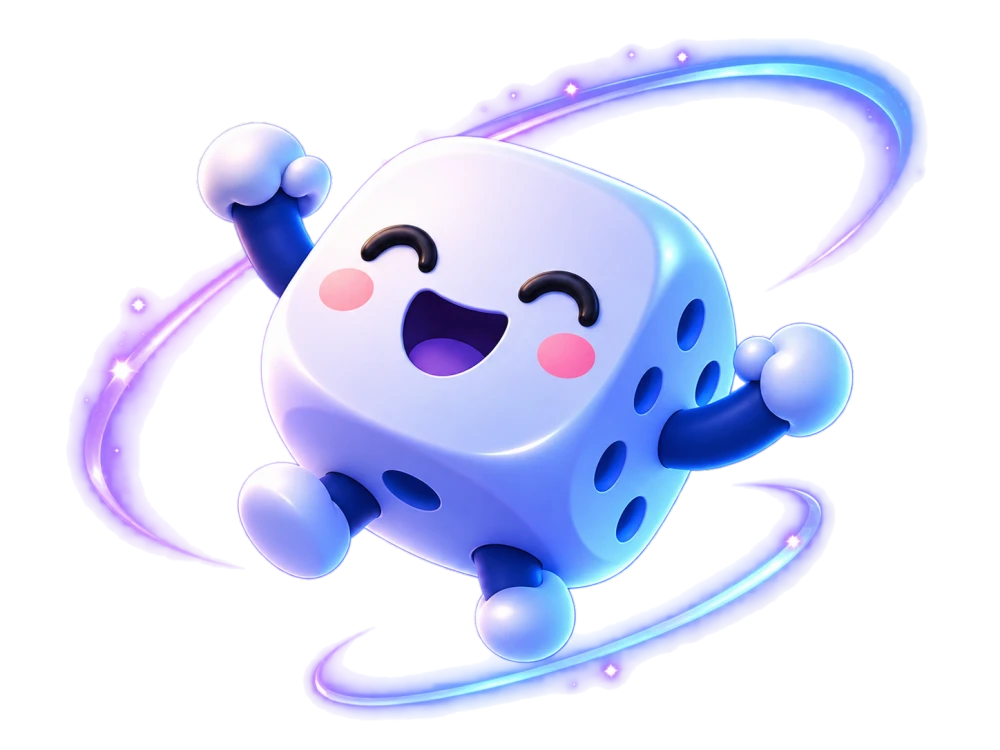
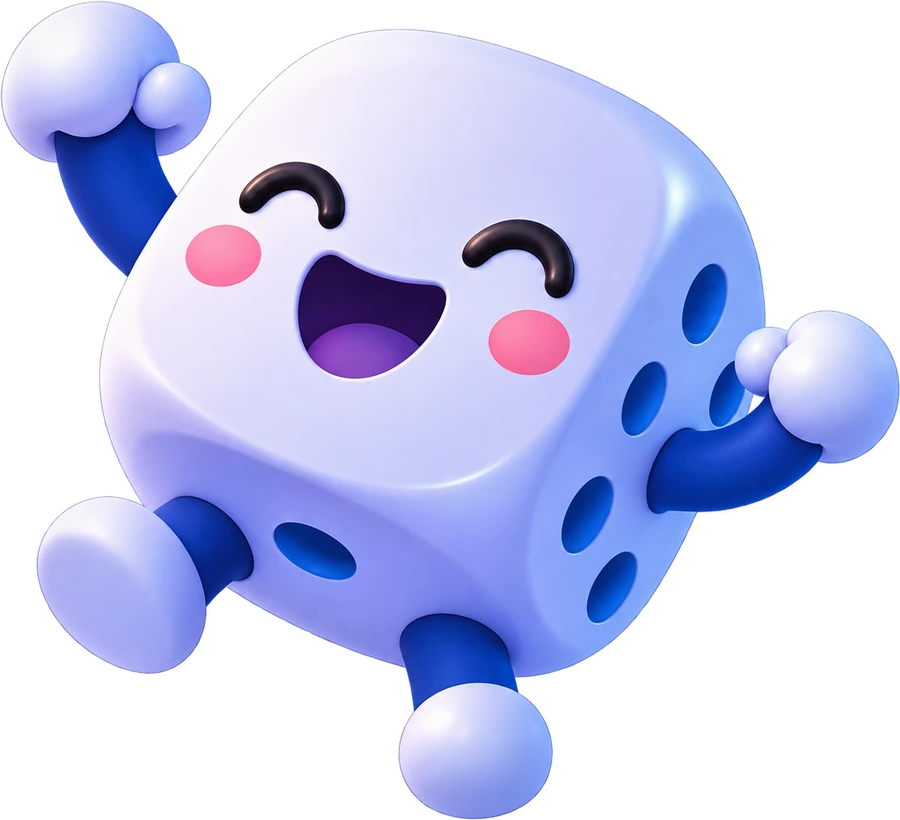
Update: New Hero Page

diff --git a/src/index.css b/src/index.css
@@ -773,34 +773,12 @@ html, body { max-width: 100%; overflow-x: clip; }
   .hero-desc { text-shadow: 0 2px 10px rgba(70,40,160,.9), 0 0 3px rgba(70,40,160,.6); }
 }
 
-/* ── hero v19: background and dice are separate images (same in both languages, never mirrored).
-   Desktop: both sit on one "cover" plate so they stay aligned. Phones: the dice is placed on its own at the top, text under it, the picture's props at the bottom. ── */
-.hero-art { position: absolute; inset: 0; container-type: size; overflow: hidden; }
-.hero-stage { position: absolute; inset: 0; --pw: max(100cqw, calc(100cqh * 1.7769)); --ph: calc(var(--pw) / 1.7769); --pl: calc((100cqw - var(--pw)) * .7); --pt: calc((100cqh - var(--ph)) * .4); }
-.hero-plate { position: absolute; left: var(--pl); top: var(--pt); width: var(--pw); height: var(--ph); }
-.hero-plate img { display: block; width: 100%; height: 100%; max-width: none; user-select: none; }
-.hero-dice { position: absolute; left: calc(var(--pl) + var(--pw) * .6943); top: calc(var(--pt) + var(--ph) * .2136); width: calc(var(--pw) * .2877); height: auto; max-width: none; user-select: none; pointer-events: none; }
-@media (max-width: 767px) {
-  .hero-plate { left: auto; right: 0; top: auto; bottom: 0; height: 69svh; width: auto; -webkit-mask-image: linear-gradient(180deg, transparent 0, #000 8%); mask-image: linear-gradient(180deg, transparent 0, #000 8%); }
-  .hero-plate img { width: auto; height: 100%; }
-  .hero-dice { --dw: min(92vw, 45svh); left: 50%; margin-left: calc(var(--dw) / -2); top: 8svh; width: var(--dw); }
-  .hero-wrap { padding-top: calc(9.5svh + min(92vw, 45svh) * .709 + .6rem); }
-}
-
-/* phones: dice a little higher (text stays where it is) */
-@media (max-width: 767px) { .hero-dice { top: 6svh; } }
-
 /* ── hero day / night (button in the header; remembered on the device) ── */
-.hero-plate img.hero-night { position: absolute; inset: 0; width: 100%; height: 100%; opacity: 0; transition: opacity .6s ease; }
-.hero-plate img:not(.hero-night) { transition: opacity .6s ease; }
-:root[data-hero='night'] .hero-plate img.hero-night { opacity: 1; }
-:root[data-hero='night'] .hero-plate img:not(.hero-night) { opacity: 0; }
 :root[data-hero='night'] #top { background: #000c23 !important; }
 :root[data-hero='night'] .hero-copy::before { background: none; }
 :root[data-hero='night'] .hero-shade { background: linear-gradient(180deg, rgba(5,7,47,.5) 0%, rgba(5,7,47,0) 18%); }
 @media (min-width: 768px) { :root[data-hero='night'] .hero-shade { background: radial-gradient(ellipse 46% 52% at 50% 50%, rgba(5,7,47,.45), rgba(5,7,47,0) 78%), linear-gradient(180deg, rgba(5,7,47,.5) 0%, rgba(5,7,47,0) 20%); } }
 :root[data-hero='night'] .hdr::before { background: linear-gradient(180deg, rgba(5, 7, 47, .7) 0%, rgba(5, 7, 47, .3) 50%, transparent 100%); }
-@media (prefers-reduced-motion: reduce) { .hero-plate img { transition: none !important; } }
 
 /* night: no purple tints (bottom fade, text shadows) – navy only */
 :root[data-hero='night'] .hero-bottomfade { background-image: linear-gradient(180deg, rgba(0,12,35,0) 0%, rgba(2,14,48,.7) 55%, var(--bg) 100%) !important; }
@@ -868,3 +846,43 @@ html:root[data-ad='light'] .admin-page .bg-black\/55 { background: rgba(16,26,61
 /* public bracket page: logo on one side, buttons on the other (no back button) */
 .pv-logo { margin-inline: 0; }
 .pv-tools { margin-inline-start: auto; }
+
+/* champions + tournaments: clearer artwork (light and dark) */
+.champ-card.has-img::before { filter: saturate(1) contrast(1.03) brightness(.95); }
+.champ-card.has-img::after { background: linear-gradient(180deg, rgba(8,12,44,.05), rgba(8,12,44,.35) 32%, rgba(8,12,44,.88) 58%, rgba(8,12,44,.97) 80%); }
+:root[data-hero='day'] .news-card:not(.on-art) .tour-img { filter: saturate(1.05) brightness(1.04); }
+:root[data-hero='day'] .news-card:not(.on-art) .tour-fade { background: linear-gradient(to top, rgba(var(--bg-rgb), 1) 0%, rgba(var(--bg-rgb), .92) 52%, rgba(var(--bg-rgb), .5) 100%); }
+:root[data-hero='day'] .news-card:not(.on-art) .tour-img ~ div h3, :root[data-hero='day'] .news-card:not(.on-art) .tour-img ~ div p, :root[data-hero='day'] .news-card:not(.on-art) .tour-img ~ div span { text-shadow: 0 0 10px rgba(255,255,255,.85), 0 0 2px rgba(255,255,255,.9); }
+
+
+/* ── hero v20: new scene. One "plate" (the picture) holds the background, the floating props and the dice, so they always stay aligned.
+   Desktop picture is 1672×941; phone picture is 941×1672 and sits at the bottom with the sky colour above it. ── */
+.hs { position: absolute; inset: 0; container-type: size; overflow: hidden; }
+.hs-stage { position: absolute; inset: 0; }
+.hs-plate { position: absolute; left: var(--pl); top: var(--pt); width: var(--pw); height: var(--ph); }
+.hs-d { --pw: max(100cqw, calc(100cqh * 1.7769)); --ph: calc(var(--pw) / 1.7769); --pl: calc((100cqw - var(--pw)) * .5); --pt: calc((100cqh - var(--ph)) * .12); }
+/* phone: props + dice stay at the top, the landscape stays at the bottom, the clean sky band between them (rows 520–680 of the 941×1672 picture) stretches to fill any screen height */
+.hs-m { --pw: 100cqw; --pl: 0px; --pt: 0px; --ph: 100cqh; --top: calc(var(--pw) * 520 / 941); --bot: calc(var(--pw) * 992 / 941); --mid: max(0px, calc(100cqh - var(--top) - var(--bot))); }
+.hs-slices { position: absolute; inset: 0; }
+.hs-slices i { position: absolute; left: 0; right: 0; display: block; background-image: var(--src); background-repeat: no-repeat; }
+.hs-slices .hs-top { top: 0; height: calc(var(--top) + 1px); background-size: 100% auto; background-position: 0 0; }
+.hs-slices .hs-bot { bottom: 0; height: var(--bot); background-size: 100% auto; background-position: 0 100%; }
+.hs-slices .hs-mid { top: var(--top); height: calc(var(--mid) + 1px); background-size: 100% calc(var(--mid) * 1672 / 160); background-position: 0 calc(var(--mid) * -520 / 160); }
+.hs-bg { position: absolute; inset: 0; width: 100%; height: 100%; max-width: none; display: block; user-select: none; transition: opacity .6s ease; }
+.hs-night { opacity: 0; }
+:root[data-hero='night'] .hs-night { opacity: 1; }
+:root[data-hero='night'] .hs-bg:not(.hs-night) { opacity: 0; }
+.hs-float { position: absolute; height: auto; max-width: none; user-select: none; pointer-events: none; will-change: transform; animation: hs-float var(--dur, 6s) ease-in-out var(--del, 0s) infinite; }
+@keyframes hs-float { 0%, 100% { transform: translateY(0) rotate(-2deg); } 50% { transform: translateY(calc(var(--amp, .6) * -1cqw)) rotate(3deg); } }
+.is-paused .hs-float { animation-play-state: paused; }
+@media (prefers-reduced-motion: reduce) { .hs-float { animation: none !important; } .hs-bg { transition: none !important; } }
+/* phones: the copy starts right under the dice (the dice bottom sits at 100svh − 118.6vw: it is 976/2092 of the way down a 941×2092 picture that sits at the bottom) */
+@media (max-width: 767px) { .hero-wrap { padding-top: max(8.5rem, calc(53vw + 2.2rem)); } }
+/* hero v20: no oversize margin (the plate must match the screen so props at the edges are not cropped), lighter top shade so the props stay clear */
+.hero-art-fix, #top .art-layer { inset: -8px; }
+#top .hero-topshade { background: linear-gradient(180deg, rgba(7,10,38,.38), transparent 11%); }
+@media (max-width: 767px) { #top .hero-topshade { background: linear-gradient(180deg, rgba(20,34,120,.3), transparent 9%); } }
+:root[data-hero='day'] #top .hero-topshade { background: linear-gradient(180deg, rgba(60,70,170,.28), transparent 10%); }
+
+/* hero v21 (desktop): copy a little higher, buttons a little closer to the tagline */
+@media (min-width: 768px) { .hero-copy { transform: translateY(-4.2svh); } .hero-desc { margin-bottom: 4rem; } }

diff --git a/src/components/ArtLayers.tsx b/src/components/ArtLayers.tsx
@@ -1,41 +1,68 @@
-import type { CSSProperties } from 'react';
-import { HERO_BG_NIGHT, HERO_DICE, LAYERS } from '../config/artwork';
+import { useEffect, useState, type CSSProperties } from 'react';
+import { DICE_DESKTOP, DICE_PHONE, HERO_BG_M, HERO_BG_M_NIGHT, HERO_BG_NIGHT, HERO_DICE, LAYERS, PIECES_DESKTOP, PIECES_PHONE, type FloatPiece } from '../config/artwork';
 import { useI18n } from '../i18n/I18nProvider';
 
 type Vars = CSSProperties & { [k: `--${string}`]: string | number };
 
-/** Parallax (outer) → scroll zoom (data-art-scroll) → entrance (data-anim=art) → image. */
+function usePhone() {
+  const q = '(max-width: 767px)';
+  const [m, setM] = useState(() => (typeof window !== 'undefined' ? window.matchMedia(q).matches : false));
+  useEffect(() => {
+    const mq = window.matchMedia(q);
+    const on = () => setM(mq.matches);
+    mq.addEventListener('change', on);
+    return () => mq.removeEventListener('change', on);
+  }, []);
+  return m;
+}
+
+/** One floating prop, placed in percentages of the picture it sits on. */
+function Float({ p, W, H, phone }: { p: FloatPiece; W: number; H: number; phone: boolean }) {
+  const dw = (p.w * p.tw) / (p.w - 28);
+  const dh = (p.h * dw) / p.w;
+  const st: Vars = { left: `${((p.cx - dw / 2) / W) * 100}%`, top: phone ? `calc(var(--pw) * ${(p.cy - dh / 2) / W})` : `${((p.cy - dh / 2) / H) * 100}%`, width: `${(dw / W) * 100}%`, '--dur': `${p.dur}s`, '--del': `${p.delay}s`, '--amp': p.amp };
+  return <img className="hs-float" src={p.file} alt="" draggable={false} style={st} />;
+}
+
+/** Parallax (outer) → scroll zoom (data-art-scroll) → entrance (data-anim=art) → picture with its floating props. */
 export default function ArtLayers() {
-  const { dir, t } = useI18n();
-  const rtl = dir === 'rtl';
+  const { t } = useI18n();
+  const phone = usePhone();
+  const W = phone ? 941 : 1672;
+  const H = phone ? 1672 : 941;
+  const pieces = phone ? PIECES_PHONE : PIECES_DESKTOP;
+  const dice = phone ? DICE_PHONE : DICE_DESKTOP;
+  const day = phone ? HERO_BG_M : LAYERS[0].src;
+  const night = phone ? HERO_BG_M_NIGHT : HERO_BG_NIGHT;
+  const diceSt: Vars = { left: `${(dice.x / W) * 100}%`, top: phone ? `calc(var(--pw) * ${dice.y / W})` : `${(dice.y / H) * 100}%`, width: `${(dice.w / W) * 100}%`, '--dur': `${dice.dur}s`, '--del': '-1s', '--amp': dice.amp };
   return (
     <div className="absolute inset-0" role="img" aria-label={t.artAlt}>
-      {LAYERS.map((l) => {
-        const vars: Vars = {
-          '--art': `url(${l.src})`,
-          '--art-m': `url(${l.srcMobile})`,
-          '--flip': (rtl ? l.mirrorInRtl : l.mirrorInLtr) ? -1 : 1,
-          '--pos': rtl ? l.pos.rtl : l.pos.ltr,
-          '--pos-m': rtl ? l.pos.mobileRtl : l.pos.mobileLtr,
-        };
-        return (
-          <div key={l.id} className="art-layer" style={{ '--d': l.depth } as Vars}>
-            <div data-art-scroll className="absolute inset-0">
-              <div data-anim="art" className="absolute inset-0">
-                <div className="hero-art" style={vars}>
-                  <div className="hero-stage">
-                    <div className="hero-plate">
-                      <img src={l.src} alt="" draggable={false} />
-                      <img className="hero-night" src={HERO_BG_NIGHT} alt="" draggable={false} />
-                    </div>
-                    <img className="hero-dice" src={HERO_DICE} alt="" draggable={false} />
-                  </div>
+      <div className="art-layer" style={{ '--d': LAYERS[0].depth } as Vars}>
+        <div data-art-scroll className="absolute inset-0">
+          <div data-anim="art" className="absolute inset-0">
+            <div className="hs">
+              <div className={`hs-stage ${phone ? 'hs-m' : 'hs-d'}`}>
+                <div className="hs-plate">
+                  {phone ? (
+                    [day, night].map((src, i) => (
+                      <div key={i} className={`hs-bg hs-slices${i ? ' hs-night' : ''}`} style={{ '--src': `url(${src})` } as Vars}>
+                        <i className="hs-top" /><i className="hs-mid" /><i className="hs-bot" />
+                      </div>
+                    ))
+                  ) : (
+                    <>
+                      <img className="hs-bg" src={day} alt="" draggable={false} />
+                      <img className="hs-bg hs-night" src={night} alt="" draggable={false} />
+                    </>
+                  )}
+                  {pieces.map((p) => <Float key={p.id} p={p} W={W} H={H} phone={phone} />)}
+                  <img className="hs-float hs-dice" src={HERO_DICE} alt="" draggable={false} style={diceSt} />
                 </div>
               </div>
             </div>
           </div>
-        );
-      })}
+        </div>
+      </div>
     </div>
   );
 }

diff --git a/src/config/artwork.ts b/src/config/artwork.ts
@@ -19,8 +19,8 @@ const BASE = import.meta.env.BASE_URL;
 export const LAYERS: ArtLayer[] = [
   {
     id: 'scene',
-    src: `${BASE}art/hero-bg.webp`,                // 1672×941, background only (no dice)
-    srcMobile: `${BASE}art/hero-bg.webp`,
+    src: `${BASE}art/hero-bg.webp`,                // 1672×941, background only (no dice, no floating props)
+    srcMobile: `${BASE}art/hero-bg-m.webp`,        // 941×1672 phone version
     depth: 6,
     zoom: 0.03,
     mirrorInLtr: false,
@@ -28,6 +28,36 @@ export const LAYERS: ArtLayer[] = [
     pos: { ltr: '70% 40%', rtl: '70% 40%', mobileLtr: '90% 40%', mobileRtl: '90% 40%' },
   },
 ];
+
+/** Phone backgrounds (941×1672). */
+export const HERO_BG_M = `${BASE}art/hero-bg-m.webp`;
+export const HERO_BG_M_NIGHT = `${BASE}art/hero-bg-m-night.webp`;
+
+/**
+ * Floating props. Positions are centre points + visible width in pixels of the background they sit on
+ * (desktop plate 1672×941, phone plate 941×1672); ArtLayers turns them into percentages so they follow the picture at any size.
+ */
+export interface FloatPiece { id: string; file: string; w: number; h: number; cx: number; cy: number; tw: number; dur: number; delay: number; amp: number }
+const piece = (id: string, w: number, h: number, cx: number, cy: number, tw: number, dur: number, delay: number, amp: number): FloatPiece => ({ id, file: `${BASE}art/hp-${id}.webp`, w, h, cx, cy, tw, dur, delay, amp });
+export const PIECES_DESKTOP: FloatPiece[] = [
+  piece('coin_gold', 281, 231, 110, 200, 100, 6.2, 0, 0.7),
+  piece('chip_blue', 238, 176, 118, 310, 76, 5.4, -1.3, 0.6),
+  piece('card_diamond', 264, 268, 648, 100, 84, 5.8, -0.6, 0.6),
+  piece('king', 296, 435, 1028, 123, 100, 7, -2, 0.7),
+  piece('chip_purple', 235, 177, 1459, 60, 100, 6.6, -0.9, 0.6),
+  piece('card_clubs', 270, 257, 1576, 160, 96, 5.6, -1.7, 0.7),
+];
+export const PIECES_PHONE: FloatPiece[] = [
+  piece('coin_gold', 281, 231, 103, 188, 130, 6.2, 0, 1.4),
+  piece('chip_blue', 238, 176, 85, 319, 100, 5.4, -1.3, 1.2),
+  piece('card_diamond', 264, 268, 348, 153, 93, 5.8, -0.6, 1.2),
+  piece('king', 296, 435, 656, 184, 107, 7, -2, 1.4),
+  piece('chip_purple', 235, 177, 823, 81, 133, 6.6, -0.9, 1.2),
+  piece('card_clubs', 270, 257, 855, 270, 125, 5.6, -1.7, 1.4),
+];
+/** Dice art (900×820): left/top/visible width in the same plate pixels. */
+export const DICE_DESKTOP = { x: 1180, y: 163, w: 288, dur: 7.4, amp: 1.1 };
+export const DICE_PHONE = { x: 303, y: 261, w: 324, dur: 7.4, amp: 2.2 };
 
 /** The dice is its own transparent image so it can be placed independently on desktop and on phones (and animated later). */
 export const HERO_DICE = `${BASE}art/hero-dice.webp`;
